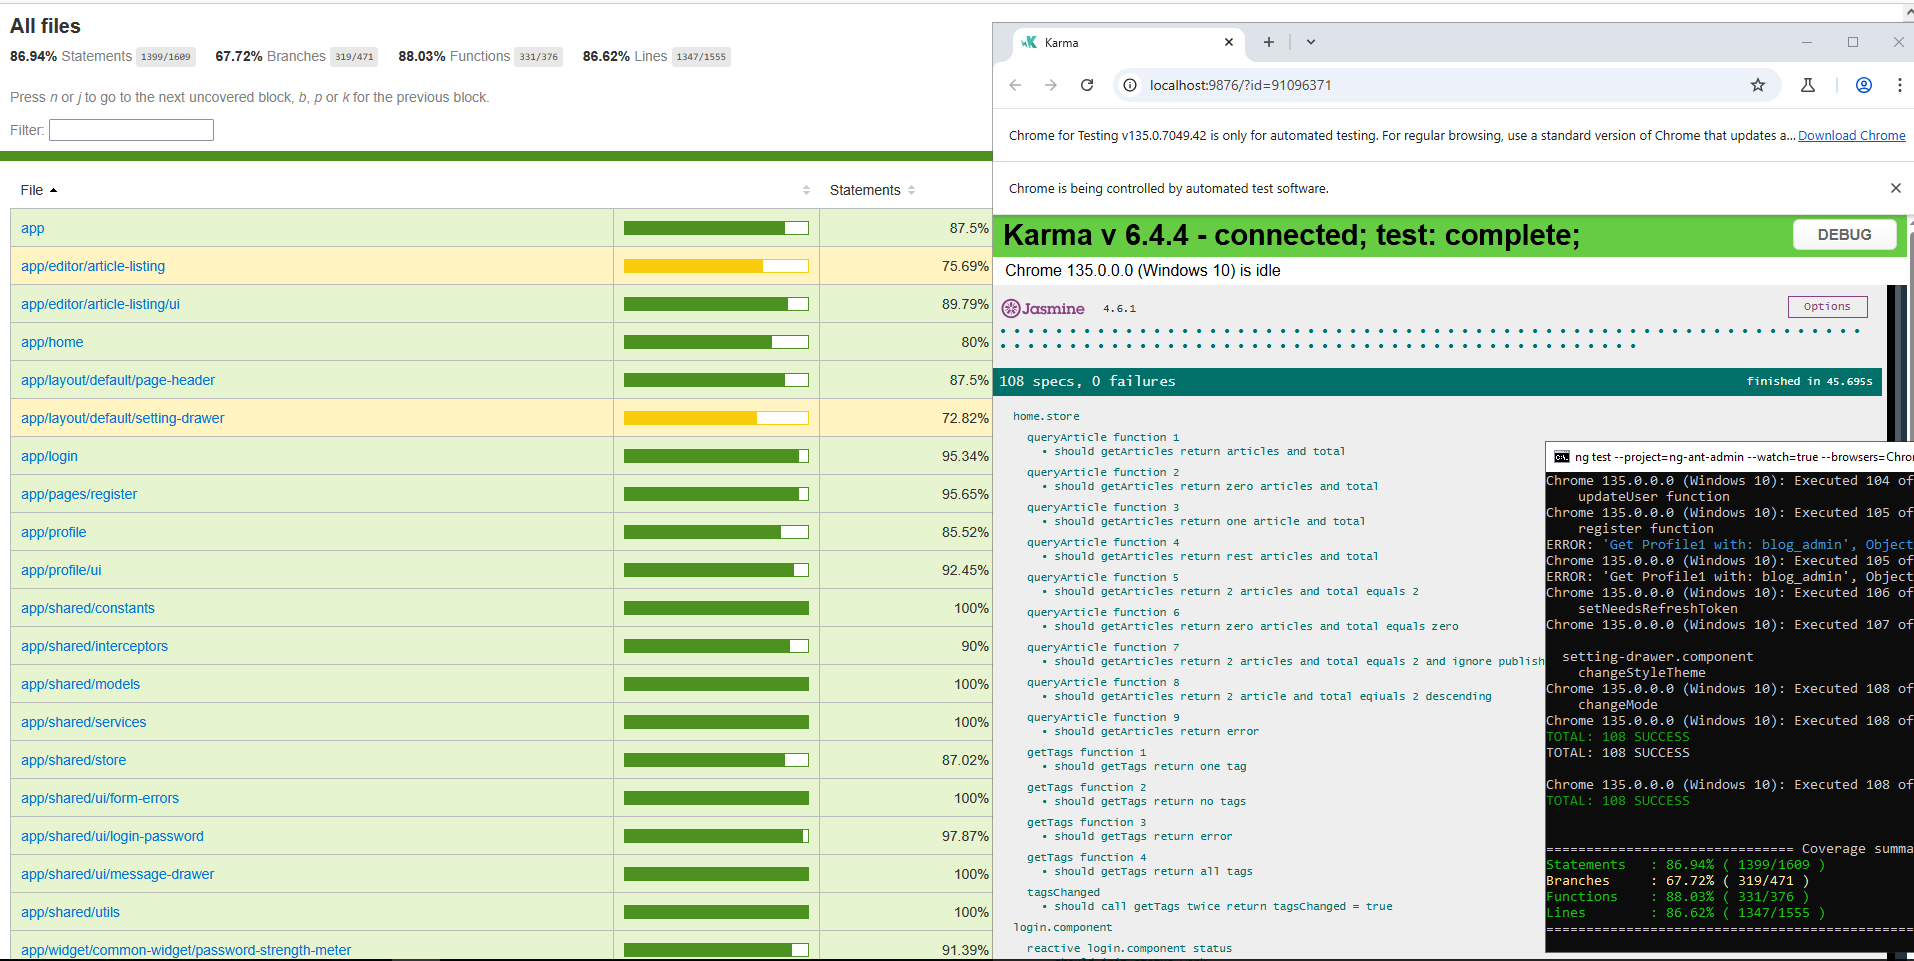
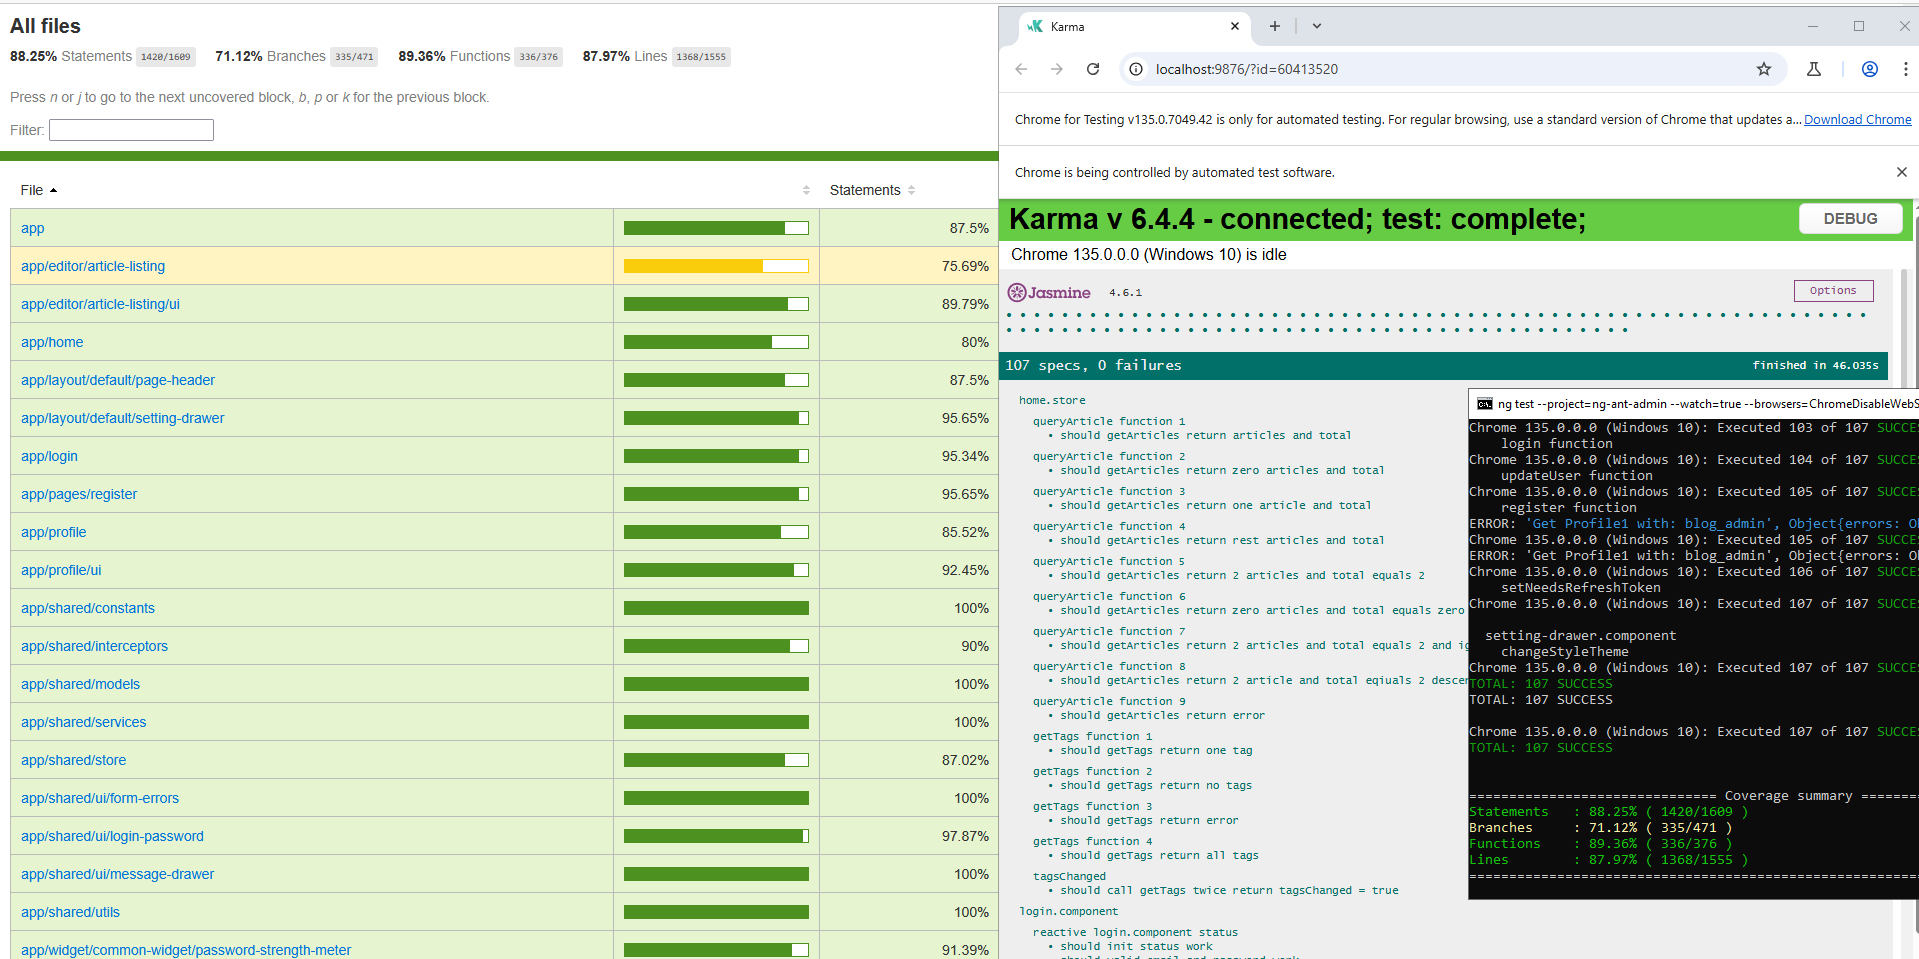
update all

diff --git a/version-2/setting-drawer.component.spec.ts b/version-2/setting-drawer.component.spec.ts
@@ -5,33 +5,24 @@
 
 import { OverlayContainer } from '@angular/cdk/overlay';
 import { provideHttpClient, withInterceptors } from '@angular/common/http';
-import { Component, OnDestroy, OnInit, inject, Injector, signal } from '@angular/core';
-import { toObservable } from '@angular/core/rxjs-interop';
 import { ComponentFixture, TestBed, fakeAsync, tick, waitForAsync, inject as testInject } from '@angular/core/testing';
-import { FormControl, FormGroup } from '@angular/forms';
 import { By } from '@angular/platform-browser';
 import { NoopAnimationsModule } from '@angular/platform-browser/animations';
 
 import { apiPrefixInterceptor, authInterceptor } from '@app/shared/interceptors';
-import { ErrorResponse } from '@app/shared/models';
-import { LoginBodyRequest } from '@app/shared/services';
 import { AuthStore } from '@app/shared/store';
-import { TypedFormGroup } from '@app/shared/utils';
 import { provideComponentStore } from '@ngrx/component-store';
 
 import { NzDrawerService } from 'ng-zorro-antd/drawer';
 import { provideNzIconsTesting } from 'ng-zorro-antd/icon/testing';
 
 import { SettingDrawerComponent } from './setting-drawer.component';
-import { environment } from '../../../../environments/environment';
 
 describe('setting-drawer.component', () => {
   describe('changeStyleTheme', () => {
     let TIMEOUT_INTERVAL: number;
     let component: SettingDrawerComponent;
     let fixture: ComponentFixture<SettingDrawerComponent>;
-    let helpComponent: TestHelpComponent;
-    let helpFixture: ComponentFixture<TestHelpComponent>;
     let overlayContainer: OverlayContainer;
 
     beforeEach(() => {
@@ -48,21 +39,9 @@ describe('setting-drawer.component', () => {
           provideComponentStore(AuthStore),
           NzDrawerService
         ],
-        imports: [NoopAnimationsModule, TestHelpComponent, SettingDrawerComponent]
+        imports: [NoopAnimationsModule, SettingDrawerComponent]
       }).compileComponents();
-
-      helpFixture = TestBed.createComponent(TestHelpComponent);
-      helpComponent = helpFixture.componentInstance;
-
-      helpFixture.detectChanges();
-      expect(helpComponent.isAuthenticated()).toBe(false);
-
-      helpComponent.login({ email: environment.testUserEmail, password: environment.testUserPassword });
-      helpFixture.detectChanges();
     }));
-    beforeEach(async () => {
-      await helpFixture.whenRenderingDone();
-    });
 
     beforeEach(
       testInject([OverlayContainer], (currentOverlayContainer: OverlayContainer) => {
@@ -82,7 +61,6 @@ describe('setting-drawer.component', () => {
 
       const buttonElement = buttons[0].nativeElement;
       buttonElement.click();
-
       fixture.detectChanges();
     }));
     beforeEach(async () => {
@@ -95,11 +73,136 @@ describe('setting-drawer.component', () => {
         overlayContainer.getContainerElement().querySelector('.ant-drawer')!.classList.contains('ant-drawer-open')
       ).toBe(true);
 
-      const buttons = fixture.debugElement.queryAll(By.css('.anticon'));
-      expect(buttons.length).toBe(7);
-
       component.changeStyleTheme('dark');
+      fixture.detectChanges();
+    }));
+    beforeEach(async () => {
+      await fixture.whenRenderingDone();
+    });
 
+    beforeEach(waitForAsync(() => {
+      fixture.detectChanges();
+      expect(
+        overlayContainer.getContainerElement().querySelector('.ant-drawer')!.classList.contains('ant-drawer-open')
+      ).toBe(true);
+
+      component.changeMode({
+        key: 'top',
+        image: 'assets/imgs/menu-side.svg',
+        title: 'Side menu layout works better for desktops',
+        isChecked: true
+      });
+      fixture.detectChanges();
+    }));
+    beforeEach(async () => {
+      await fixture.whenRenderingDone();
+    });
+
+    beforeEach(waitForAsync(() => {
+      fixture.detectChanges();
+      expect(
+        overlayContainer.getContainerElement().querySelector('.ant-drawer')!.classList.contains('ant-drawer-open')
+      ).toBe(true);
+
+      component.changeTheme({
+        key: 'dark',
+        image: 'assets/imgs/menu-side.svg',
+        title: 'Side menu layout works better for desktops',
+        isChecked: true
+      });
+      fixture.detectChanges();
+    }));
+    beforeEach(async () => {
+      await fixture.whenRenderingDone();
+    });
+
+    beforeEach(waitForAsync(() => {
+      fixture.detectChanges();
+      expect(
+        overlayContainer.getContainerElement().querySelector('.ant-drawer')!.classList.contains('ant-drawer-open')
+      ).toBe(true);
+
+      component.changeThemeOptions(false, 'isShowTab');
+      fixture.detectChanges();
+    }));
+    beforeEach(async () => {
+      await fixture.whenRenderingDone();
+    });
+
+    beforeEach(waitForAsync(() => {
+      fixture.detectChanges();
+      expect(
+        overlayContainer.getContainerElement().querySelector('.ant-drawer')!.classList.contains('ant-drawer-open')
+      ).toBe(true);
+
+      component.changeThemeOptions(false, 'fixedHead');
+      fixture.detectChanges();
+    }));
+    beforeEach(async () => {
+      await fixture.whenRenderingDone();
+    });
+
+    beforeEach(waitForAsync(() => {
+      fixture.detectChanges();
+      expect(
+        overlayContainer.getContainerElement().querySelector('.ant-drawer')!.classList.contains('ant-drawer-open')
+      ).toBe(true);
+
+      component.changeSpecialTheme(true, 'color-weak');
+      fixture.detectChanges();
+    }));
+    beforeEach(async () => {
+      await fixture.whenRenderingDone();
+    });
+
+    beforeEach(waitForAsync(() => {
+      fixture.detectChanges();
+      expect(
+        overlayContainer.getContainerElement().querySelector('.ant-drawer')!.classList.contains('ant-drawer-open')
+      ).toBe(true);
+
+      component.changeSpecialTheme(true, 'grey-theme');
+      fixture.detectChanges();
+    }));
+    beforeEach(async () => {
+      await fixture.whenRenderingDone();
+    });
+
+    beforeEach(waitForAsync(() => {
+      fixture.detectChanges();
+      expect(
+        overlayContainer.getContainerElement().querySelector('.ant-drawer')!.classList.contains('ant-drawer-open')
+      ).toBe(true);
+
+      component.dragging = true;
+      component.dragEnd();
+      fixture.detectChanges();
+    }));
+    beforeEach(async () => {
+      await fixture.whenRenderingDone();
+    });
+
+    beforeEach(waitForAsync(() => {
+      fixture.detectChanges();
+      expect(
+        overlayContainer.getContainerElement().querySelector('.ant-drawer')!.classList.contains('ant-drawer-open')
+      ).toBe(true);
+
+      component.dragging = true;
+      component.changeCollapsed();
+      fixture.detectChanges();
+    }));
+    beforeEach(async () => {
+      await fixture.whenRenderingDone();
+    });
+
+    beforeEach(waitForAsync(() => {
+      fixture.detectChanges();
+      expect(
+        overlayContainer.getContainerElement().querySelector('.ant-drawer')!.classList.contains('ant-drawer-open')
+      ).toBe(true);
+
+      component.resetMenuSettingsToDefault();
       fixture.detectChanges();
     }));
     beforeEach(async () => {
@@ -116,166 +219,7 @@ describe('setting-drawer.component', () => {
 
     it('should changeStyleTheme to dark', fakeAsync(() => {
       tick(20);
-      helpFixture.detectChanges();
-      expect(helpComponent.isAuthenticated()).toBe(true);
-    }));
-  });
-
-  describe('changeMode', () => {
-    let TIMEOUT_INTERVAL: number;
-    let component: SettingDrawerComponent;
-    let fixture: ComponentFixture<SettingDrawerComponent>;
-    let helpComponent: TestHelpComponent;
-    let helpFixture: ComponentFixture<TestHelpComponent>;
-    let overlayContainer: OverlayContainer;
-
-    beforeEach(() => {
-      localStorage.clear();
-      TIMEOUT_INTERVAL = jasmine.DEFAULT_TIMEOUT_INTERVAL;
-      jasmine.DEFAULT_TIMEOUT_INTERVAL = 12000;
-    });
-
-    beforeEach(waitForAsync(() => {
-      TestBed.configureTestingModule({
-        providers: [
-          provideHttpClient(withInterceptors([apiPrefixInterceptor, authInterceptor])),
-          provideNzIconsTesting(),
-          provideComponentStore(AuthStore),
-          NzDrawerService
-        ],
-        imports: [NoopAnimationsModule, TestHelpComponent, SettingDrawerComponent]
-      }).compileComponents();
-
-      helpFixture = TestBed.createComponent(TestHelpComponent);
-      helpComponent = helpFixture.componentInstance;
-
-      helpFixture.detectChanges();
-      expect(helpComponent.isAuthenticated()).toBe(false);
-
-      helpComponent.login({ email: environment.testUserEmail, password: environment.testUserPassword });
-      helpFixture.detectChanges();
-    }));
-    beforeEach(async () => {
-      await helpFixture.whenRenderingDone();
-    });
-
-    beforeEach(
-      testInject([OverlayContainer], (currentOverlayContainer: OverlayContainer) => {
-        overlayContainer = currentOverlayContainer;
-      })
-    );
-
-    beforeEach(waitForAsync(() => {
-      fixture = TestBed.createComponent(SettingDrawerComponent);
-      component = fixture.componentInstance;
       fixture.detectChanges();
-
-      expect(overlayContainer.getContainerElement().querySelector('.ant-drawer')).toBeTruthy();
-
-      const buttons = fixture.debugElement.queryAll(By.css('.anticon'));
-      expect(buttons.length).toBe(7);
-
-      const buttonElement = buttons[0].nativeElement;
-      buttonElement.click();
-
-      fixture.detectChanges();
-    }));
-    beforeEach(async () => {
-      await fixture.whenRenderingDone();
-    });
-
-    beforeEach(waitForAsync(() => {
-      fixture.detectChanges();
-      expect(
-        overlayContainer.getContainerElement().querySelector('.ant-drawer')!.classList.contains('ant-drawer-open')
-      ).toBe(true);
-
-      const buttons = fixture.debugElement.queryAll(By.css('.anticon'));
-      expect(buttons.length).toBe(7);
-
-      fixture.detectChanges();
-    }));
-    beforeEach(async () => {
-      await fixture.whenRenderingDone();
-    });
-
-    beforeEach(waitForAsync(() => {
-      fixture.detectChanges();
-      component.changeMode({
-        key: 'top',
-        image: 'assets/imgs/menu-side.svg',
-        title: 'Side menu layout works better for desktops',
-        isChecked: false
-      });
-      fixture.detectChanges();
-    }));
-    beforeEach(async () => {
-      await fixture.whenRenderingDone();
-    });
-
-    afterEach(
-      testInject([OverlayContainer], (currentOverlayContainer: OverlayContainer) => {
-        jasmine.DEFAULT_TIMEOUT_INTERVAL = TIMEOUT_INTERVAL;
-        currentOverlayContainer.ngOnDestroy();
-        overlayContainer.ngOnDestroy();
-      })
-    );
-
-    it('should changeMode to top', fakeAsync(() => {
-      tick(20);
-      helpFixture.detectChanges();
-      expect(helpComponent.isAuthenticated()).toBe(true);
     }));
   });
 });
-
-@Component({})
-export class TestHelpComponent implements OnInit, OnDestroy {
-  readonly #authStore = inject(AuthStore);
-  readonly errorResponse = this.#authStore.selectors.errorResponse;
-  readonly isAuthenticated = this.#authStore.selectors.isAuthenticated;
-  readonly isLoading = signal<boolean>(false);
-  private injector = inject(Injector);
-  errors: string[] = [];
-
-  private readonly loginForm: TypedFormGroup<LoginBodyRequest> = new FormGroup({
-    email: new FormControl('', {
-      nonNullable: true
-    }),
-    password: new FormControl('', {
-      nonNullable: true
-    })
-  });
-
-  setNeedsRefreshToken(): void {
-    if (this.isLoading()) {
-      return;
-    }
-    this.isLoading.set(true);
-    const user = this.#authStore.selectors.user();
-    user!.token = environment.testRefreshToken;
-    this.#authStore.checkProfile({ loading: this.isLoading, user: user! });
-  }
-
-  login(loginData: LoginBodyRequest): void {
-    if (this.isLoading()) {
-      return;
-    }
-    this.isLoading.set(true);
-    this.loginForm.patchValue(loginData);
-    this.#authStore.login({ loading: this.isLoading, form: this.loginForm });
-  }
-
-  ngOnDestroy(): void {
-    this.#authStore.resetErrorResponse();
-  }
-  ngOnInit(): void {
-    toObservable(this.errorResponse, { injector: this.injector }).subscribe((errorResponse: ErrorResponse | null) => {
-      if (errorResponse) {
-        this.errors = Object.keys(errorResponse.errors || {}).map(key => `${errorResponse.errors[key]}`);
-      } else {
-        this.errors = [];
-      }
-    });
-  }
-}
